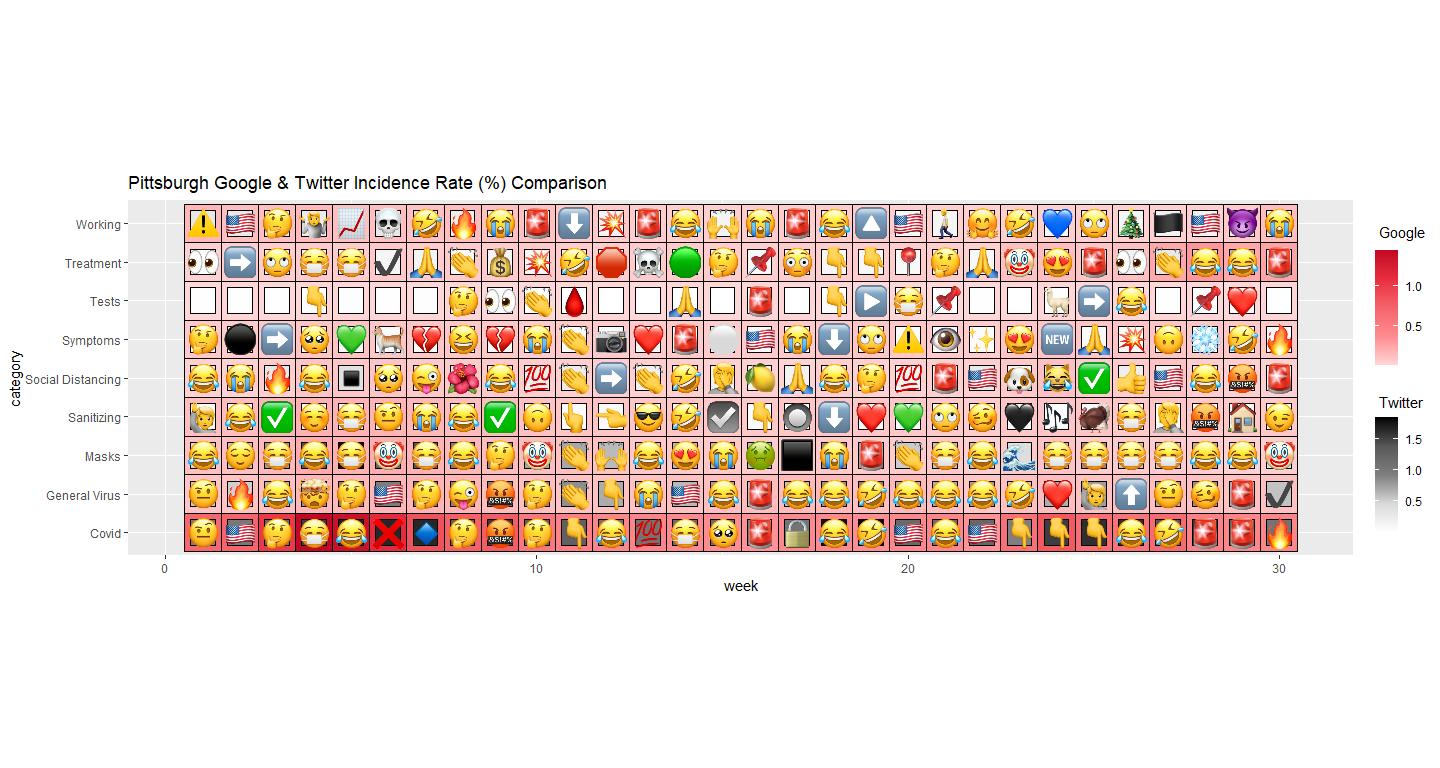
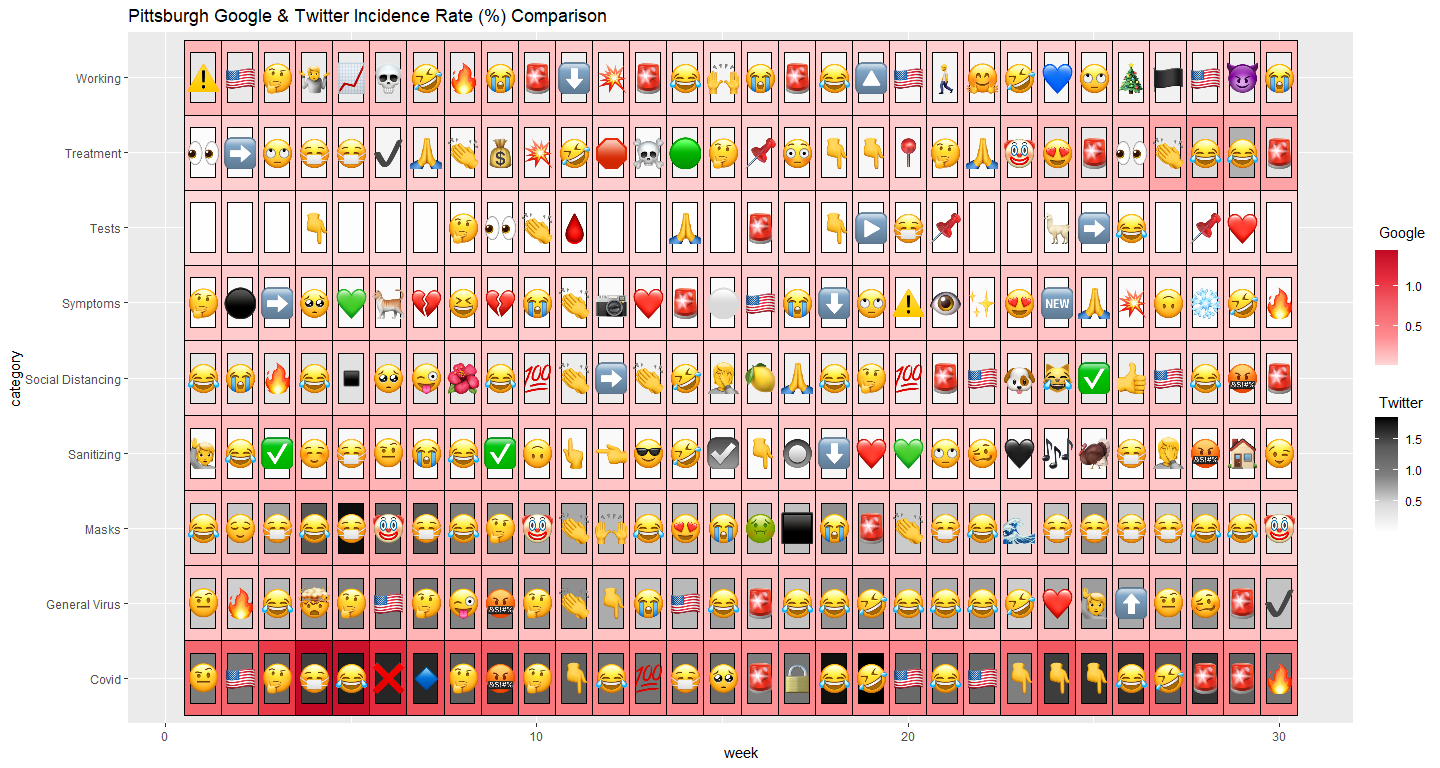
updated readme

diff --git a/README.md b/README.md
@@ -91,8 +91,6 @@ ggplot(data = pitts_tg, aes(x = week, y = category)) +
   # rendering emojis using "richtext"
   annotate("richtext", x = rep(c(1:30), 9), y = rep(1:9, each = 30), 
            label = pitts_emojis, label.color = NA, fill = NA, size = 0.3) +
-  # adjust the aspect ratio for better visualization
-  theme(aspect.ratio = 9/31) +
   ggtitle("Pittsburgh Google & Twitter Incidence Rate (%) Comparison")
 ```
 
